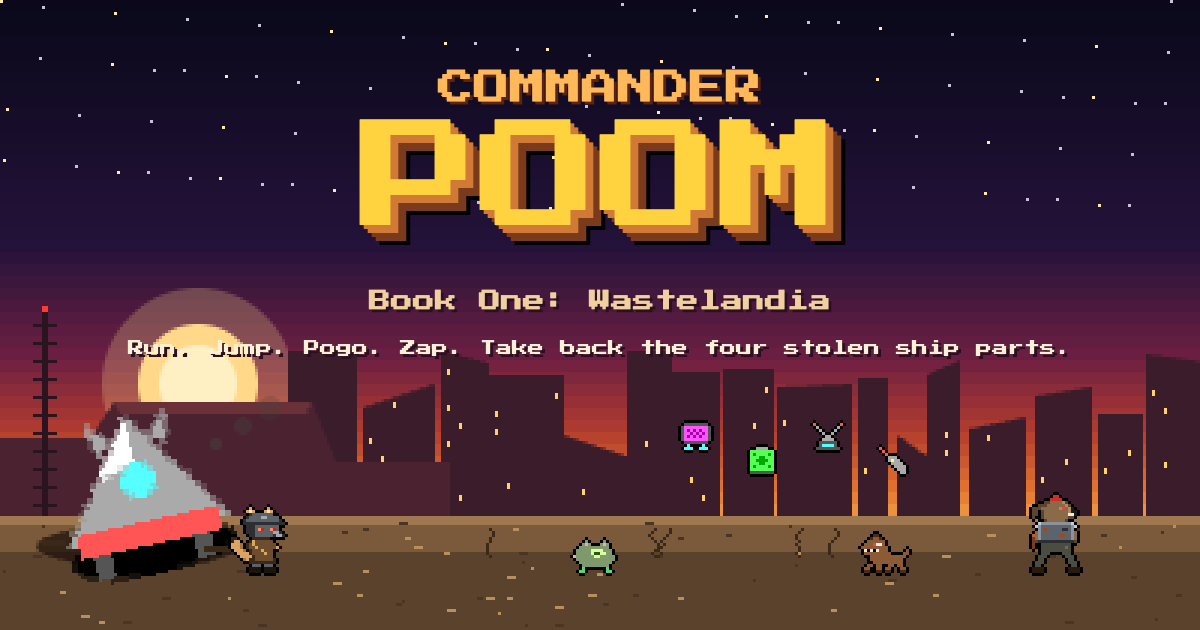
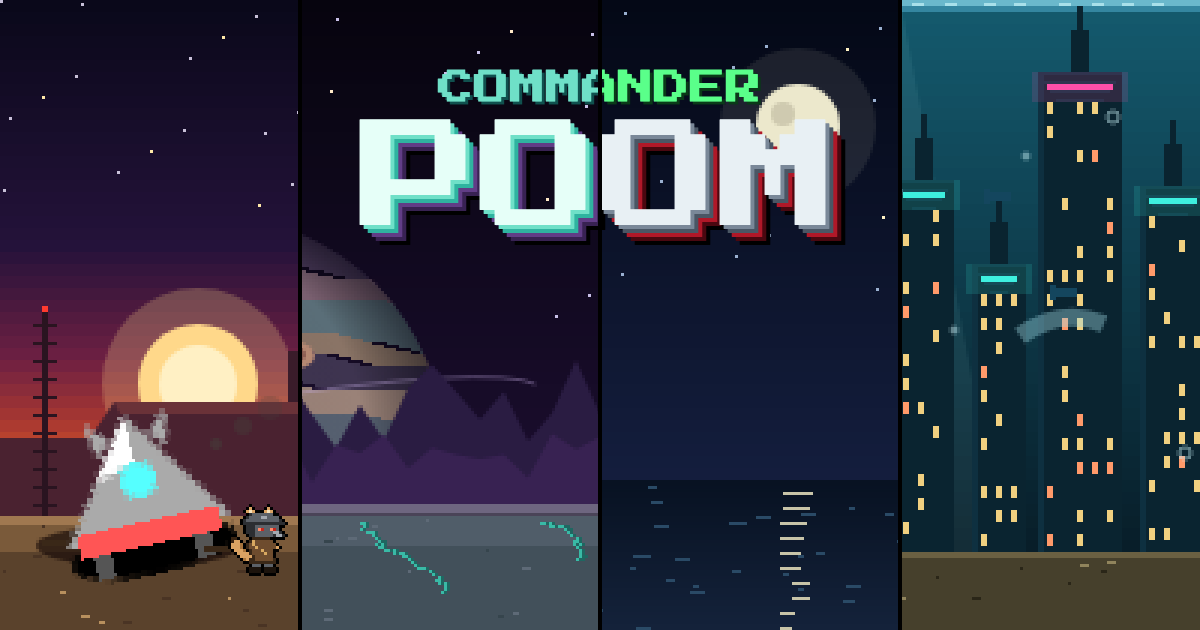
Share card shows all four Books; share copy for the whole game
og.png is one title screen seen through four windows, each quarter the
same quarter of its own Book's title, the logo across them in each
Book's colours. tools/og.html draws it, extending Raptura's city to the
card's edge. Title, description and alt text now describe the game, not
Book One, and og:image carries ?v=2 so caches fetch the new card.

diff --git a/tools/og.html b/tools/og.html
@@ -13,38 +13,94 @@
 <body>
 <canvas width="1200" height="630"></canvas>
 <script src="../js/art.js"></script>
+<script src="../js/art-book3.js"></script>
+<script src="../js/art-book4.js"></script>
 <script>
-/* Book 1's card: the wasteland title scene, wider, with ranger Poom by the
-   crashed Catamaran, a few of the Glow's creatures and the logo in amber */
+/* One title screen seen through four windows: each quarter of the card is
+   the same quarter of that Book's own title scene, so the skyline, the gas
+   giant, the lair and the drowned city line up as one scene. The logo runs
+   across them, each window drawing it in its own Book's colours
+   (index.html's #logo[data-look]). */
 buildArt();
-useLook("ranger"); useCreatures("wasteland"); useItems("wasteland");
-const mapArt = paintMapTiles();
+const ship = paintMapTiles().shipBare;
 const c = document.querySelector("canvas"), g = c.getContext("2d");
 g.imageSmoothingEnabled = false;
-/* the scene at 400x210, three times over */
-const s = paintWasteTitle(mapArt.shipBare, 400, 210), x = s.getContext("2d");
-x.imageSmoothingEnabled = false;
-for (let i = 0; i < 90; i++) { const sy = (i * 61) % 70; x.fillStyle = i % 3 ? "#c8c0d8" : "#ffe9a8"; x.fillRect((i * 97) % 400, sy, 1, 1); }
-x.fillStyle = "#ff3b2f"; x.fillRect(14, 102, 2, 2);
-for (let i = 0; i < 3; i++) { x.fillStyle = `rgba(70, 64, 60, ${0.55 - i * 0.15})`; x.beginPath(); x.arc(72 + i * 9, 148 - i * 6, 2 + i, 0, Math.PI * 2); x.fill(); }
-const foot = (spr, px) => x.drawImage(spr, px, 192 - spr.height);
-foot(ART.poom.stand.r, 76);
-foot(ART.mousel.walk0.l, 190);
-foot(ART.barker.walk0.l, 286);
-foot(ART.vac.walk0.l, 340);
-ART.parts.forEach((p, i) => x.drawImage(p, 226 + i * 22, 140 + (i % 2) * 8));
-g.drawImage(s, 0, 0, 1200, 630);
+
+/* the title's stars, as game.js scatters them, each Book keeping its own sky */
+const stars = Array.from({ length: 110 }, (_, i) => ({ x: (i * 97) % 400, y: (i * 61) % 150, c: i % 4 === 2 }));
+const BOOKS = [
+  { paint: paintWasteTitle, look: "ranger", foot: 192, px: 76, sky: s => s.y < 70, star: ["#c8c0d8", "#ffe9a8"],
+    extra: x => {
+      x.fillStyle = "#ff3b2f"; x.fillRect(14, 102, 2, 2);
+      for (let i = 0; i < 3; i++) { x.fillStyle = `rgba(70, 64, 60, ${0.55 - i * 0.15})`; x.beginPath(); x.arc(72 + i * 9, 148 - i * 6, 2 + i, 0, Math.PI * 2); x.fill(); }
+    },
+    cmd: ["#ffb85a", "#5a2410"], poom: ["#ffd23f", "#d07a36", "#d07a36", "#7a3a1c", "#7a3a1c"] },
+  { paint: paintThrumTitle, look: "hunter", foot: 182, px: 79, sky: s => s.y < 120 && (s.x > 160 || s.y < 66), star: ["#c8c0e8", "#ffe9c8"],
+    extra: x => {
+      x.fillStyle = "rgba(111, 224, 200, 0.16)"; x.fillRect(0, 172, 400, 38);
+      for (const [on, px] of [[1, 21], [0, 48], [0, 75]]) { x.fillStyle = on ? "#6fe0c8" : "#10504e"; x.fillRect(px - 1, 178, 3, 2); }
+    },
+    cmd: ["#6fe0c8", "#10504e"], poom: ["#e6fff8", "#6fe0c8", "#2fb3a0", "#613d86", "#382252"] },
+  { paint: paintClawTitle, look: "sneak", foot: 181, px: 62, sky: s => s.y < 100 && Math.hypot(s.x - 266, s.y - 42) > 18 && !(s.x < 150 && s.y > 64), star: ["#9ab0d0", "#fff2c4"],
+    extra: x => {
+      x.fillStyle = "rgba(220, 230, 200, 0.10)";
+      for (const [x0, a] of [[40, 0.5], [88, -0.2]]) { x.beginPath(); x.moveTo(x0, 106); x.lineTo(x0 + Math.sin(a) * 240 - 16, 106 - Math.cos(a) * 240); x.lineTo(x0 + Math.sin(a) * 240 + 16, 106 - Math.cos(a) * 240); x.closePath(); x.fill(); }
+      x.fillStyle = "#ff3b2f"; x.fillRect(75, 38, 2, 2);
+    },
+    cmd: ["#5aff8a", "#0a3a18"], poom: ["#e8f0f4", "#7a8898", "#4a5664", "#b01828", "#4a0810"] },
+  { paint: paintDeepTitle, look: "diver", foot: 181, px: 76, sky: () => false, star: [],
+    extra: x => {
+      /* the painter's city stops near x=320; carry it on to the card's edge
+         the way paintDeepTitle builds its towers, standing on the seabed */
+      const r = rng(41), px = (col, X, Y, w = 1, h = 1) => { x.fillStyle = col; x.fillRect(X, Y, w, h); };
+      for (const [tx, w, h, neon] of [[324, 18, 112, "teal"], [346, 28, 176, "pink"], [380, 22, 138, "teal"]]) {
+        const top = 200 - h;
+        px("#0a2430", tx, top, w, 184 - top); px("#0e3040", tx, top, 2, 184 - top);
+        px("#0a2430", tx + w / 2 - 3, top - 14, 6, 14); px("#0a2430", tx + w / 2 - 1, top - 22, 2, 8);
+        for (let i = 0; i < 4; i++) px("#0e3040", tx + i * 2, top + i * 3, w - i * 4, 1);
+        for (let y = top + 10; y < 180; y += 8) for (let wx = tx + 3; wx < tx + w - 3; wx += 5) if (r() < .35) px(r() < .8 ? "#f0d080" : "#ff9a6a", wx, y, 2, 4);
+        px(B4_NEON[neon], tx + 3, top + 4, w - 6, 2);
+        x.fillStyle = neon === "pink" ? "rgba(255, 79, 168, 0.15)" : "rgba(63, 240, 224, 0.15)"; x.fillRect(tx - 2, top, w + 4, 10);
+      }
+      x.strokeStyle = "rgba(160, 220, 230, 0.4)"; x.lineWidth = 6; x.beginPath(); x.moveTo(340, 112); x.quadraticCurveTo(354, 102, 368, 108); x.stroke();
+      x.lineWidth = 1; x.strokeStyle = "rgba(200, 240, 245, 0.55)";
+      for (let i = 0; i < 18; i++) { x.beginPath(); x.arc((i * 53) % 400, 196 - (i * 71) % 170, 1 + (i % 2), 0, Math.PI * 2); x.stroke(); }
+      x.fillStyle = "#14465e"; for (const [fx, fy] of [[330, 64], [352, 96]]) { x.fillRect(fx, fy, 7, 3); x.fillRect(fx - 2, fy - 1, 2, 5); }
+    },
+    cmd: ["#3ff0e0", "#0a3a40"], poom: ["#fff4d0", "#f8d860", "#d8a830", "#a8781c", "#3a2a0a"] },
+];
+
+/* each scene at 400x210, three times over; Book i's columns 100i to
+   100i+100 fill the card's i-th 300-pixel window. Poom stands where the game
+   puts him, so only Book One's window shows him */
+const SW = 100, K = 3;
+BOOKS.forEach((b, i) => {
+  useLook(b.look);
+  const s = b.paint(ship, 400, 210), x = s.getContext("2d");
+  x.imageSmoothingEnabled = false;
+  for (const st of stars) if (b.sky(st)) { x.fillStyle = b.star[st.c ? 1 : 0]; x.fillRect(st.x, st.y, 1, 1); }
+  b.extra(x);
+  const spr = ART.poom.stand.r;
+  x.drawImage(spr, b.px, b.foot - spr.height);
+  g.drawImage(s, i * SW, 0, SW, 210, i * SW * K, 0, SW * K, 630);
+});
+/* the seams */
+g.fillStyle = "#000";
+for (let i = 1; i < BOOKS.length; i++) g.fillRect(i * SW * K - 2, 0, 4, 630);
+
+/* the logo, clipped to each slice and dressed in that Book's colours */
+const inSlice = (i, draw) => { g.save(); g.beginPath(); g.rect(i * SW * K + (i ? 2 : 0), 0, SW * K - (i ? 2 : 0) - (i < BOOKS.length - 1 ? 2 : 0), 630); g.clip(); draw(); g.restore(); };
 document.fonts.load("48px 'Press Start 2P'").then(() => {
   g.textAlign = "center"; g.textBaseline = "top";
-  g.font = "36px 'Press Start 2P'";
-  g.fillStyle = "#5a2410"; g.fillText("COMMANDER", 603, 73);
-  g.fillStyle = "#ffb85a"; g.fillText("COMMANDER", 600, 70);
-  g.font = "120px 'Press Start 2P'";
-  for (let i = 5; i >= 1; i--) { g.fillStyle = i > 4 ? "#000" : i > 2 ? "#7a3a1c" : "#d07a36"; g.fillText("POOM", 600 + i * 4, 120 + i * 4); }
-  g.fillStyle = "#ffd23f"; g.fillText("POOM", 600, 120);
-  const shadowed = (text, y, col) => { g.fillStyle = "#2a1020"; g.fillText(text, 603, y + 3); g.fillStyle = col; g.fillText(text, 600, y); };
-  g.font = "22px 'Press Start 2P'"; shadowed("Book One: Wastelandia", 290, "#f0d0a0");
-  g.font = "16px 'Press Start 2P'"; shadowed("Run. Jump. Pogo. Zap. Take back the four stolen ship parts.", 340, "#fff0d8");
+  BOOKS.forEach((b, i) => inSlice(i, () => {
+    g.font = "36px 'Press Start 2P'";
+    g.fillStyle = b.cmd[1]; g.fillText("COMMANDER", 603, 73);
+    g.fillStyle = b.cmd[0]; g.fillText("COMMANDER", 600, 70);
+    g.font = "120px 'Press Start 2P'";
+    g.fillStyle = "#000"; g.fillText("POOM", 620, 140);
+    for (let k = 4; k >= 1; k--) { g.fillStyle = b.poom[k]; g.fillText("POOM", 600 + k * 4, 120 + k * 4); }
+    g.fillStyle = b.poom[0]; g.fillText("POOM", 600, 120);
+  }));
   document.title = "ready";
 });
 </script>

diff --git a/index.html b/index.html
@@ -3,24 +3,24 @@
 <head>
 <meta charset="UTF-8">
 <meta name="viewport" content="width=device-width, initial-scale=1.0, viewport-fit=cover">
-<title>Commander Poom — Book One: Wastelandia</title>
-<meta name="description" content="A platformer in the spirit of Commander Keen. Poom crash-lands in the Glow, a wasteland of raiders, ruins and old Vaults, and has to take back four stolen parts of his ship.">
+<title>Commander Poom</title>
+<meta name="description" content="A platformer in the spirit of Commander Keen, in four Books: a wasteland of raiders and old Vaults, a hollow moon with something alive inside, a villain's volcano island, and a drowned art-deco city of otters.">
 <meta name="theme-color" content="#000000">
 <meta name="color-scheme" content="dark">
 <meta name="referrer" content="no-referrer">
-<meta property="og:title" content="Commander Poom — Book One: Wastelandia">
-<meta property="og:description" content="A platformer in the spirit of Commander Keen. Poom crash-lands in the Glow, a wasteland of raiders, ruins and old Vaults, and has to take back four stolen parts of his ship.">
+<meta property="og:title" content="Commander Poom">
+<meta property="og:description" content="A platformer in the spirit of Commander Keen, in four Books: a wasteland of raiders and old Vaults, a hollow moon with something alive inside, a villain's volcano island, and a drowned art-deco city of otters.">
 <meta property="og:type" content="website">
-<meta property="og:image" content="https://greykit.com/games/commanderpoom/og.png">
+<meta property="og:image" content="https://greykit.com/games/commanderpoom/og.png?v=2">
 <meta property="og:image:width" content="1200">
 <meta property="og:image:height" content="630">
-<meta property="og:image:alt" content="Commander Poom in a ranger helmet beside his crashed ship at dusk in a ruined wasteland, under the title Commander Poom, Book One: Wastelandia.">
+<meta property="og:image:alt" content="The Commander Poom title screen seen through four windows, one for each Book: Poom in ranger gear by his crashed ship in a wasteland at dusk, a gas giant over violet crags, a full moon over a night sea, and the lit towers of a drowned city.">
 <meta property="og:url" content="https://greykit.com/games/commanderpoom/">
 <meta name="twitter:card" content="summary_large_image">
-<meta name="twitter:title" content="Commander Poom — Book One: Wastelandia">
-<meta name="twitter:description" content="A platformer in the spirit of Commander Keen. Poom crash-lands in the Glow, a wasteland of raiders, ruins and old Vaults, and has to take back four stolen parts of his ship.">
-<meta name="twitter:image" content="https://greykit.com/games/commanderpoom/og.png">
-<meta name="twitter:image:alt" content="Commander Poom in a ranger helmet beside his crashed ship at dusk in a ruined wasteland, under the title Commander Poom, Book One: Wastelandia.">
+<meta name="twitter:title" content="Commander Poom">
+<meta name="twitter:description" content="A platformer in the spirit of Commander Keen, in four Books: a wasteland of raiders and old Vaults, a hollow moon with something alive inside, a villain's volcano island, and a drowned art-deco city of otters.">
+<meta name="twitter:image" content="https://greykit.com/games/commanderpoom/og.png?v=2">
+<meta name="twitter:image:alt" content="The Commander Poom title screen seen through four windows, one for each Book: Poom in ranger gear by his crashed ship in a wasteland at dusk, a gas giant over violet crags, a full moon over a night sea, and the lit towers of a drowned city.">
 <link rel="manifest" href="manifest.webmanifest">
 <link rel="apple-touch-icon" href="apple-touch-icon.png">
 <link rel="icon" type="image/svg+xml" href="icon.svg">
@@ -266,6 +266,6 @@ kbd{font:inherit;color:var(--ui-head)}
 <script src="js/books/G.js?v=5775b3dc"></script>
 <script src="js/books/H.js?v=5263ba43"></script>
 <script src="js/books/I.js?v=15f4fdd4"></script>
-<script src="js/game.js?v=eb86ea5a"></script>
+<script src="js/game.js?v=e15c6cad"></script>
 </body>
 </html>
